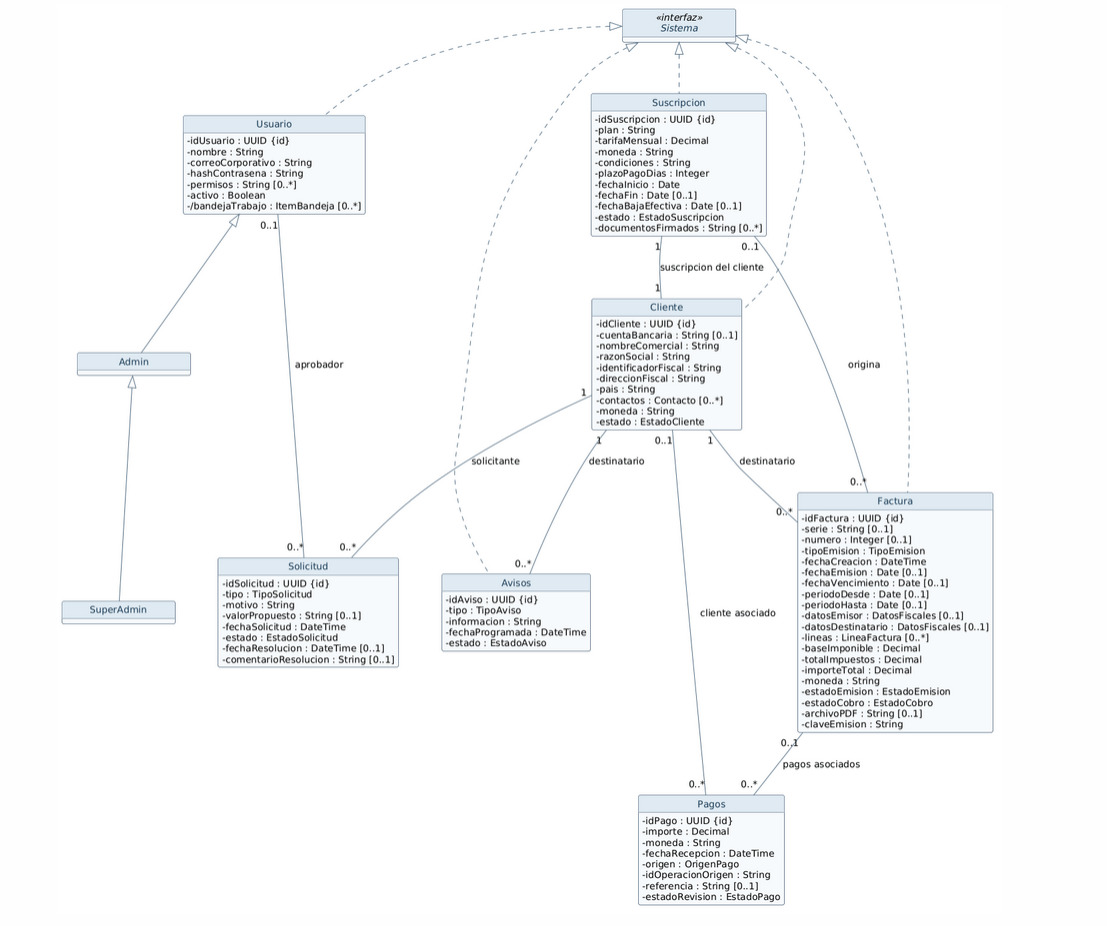
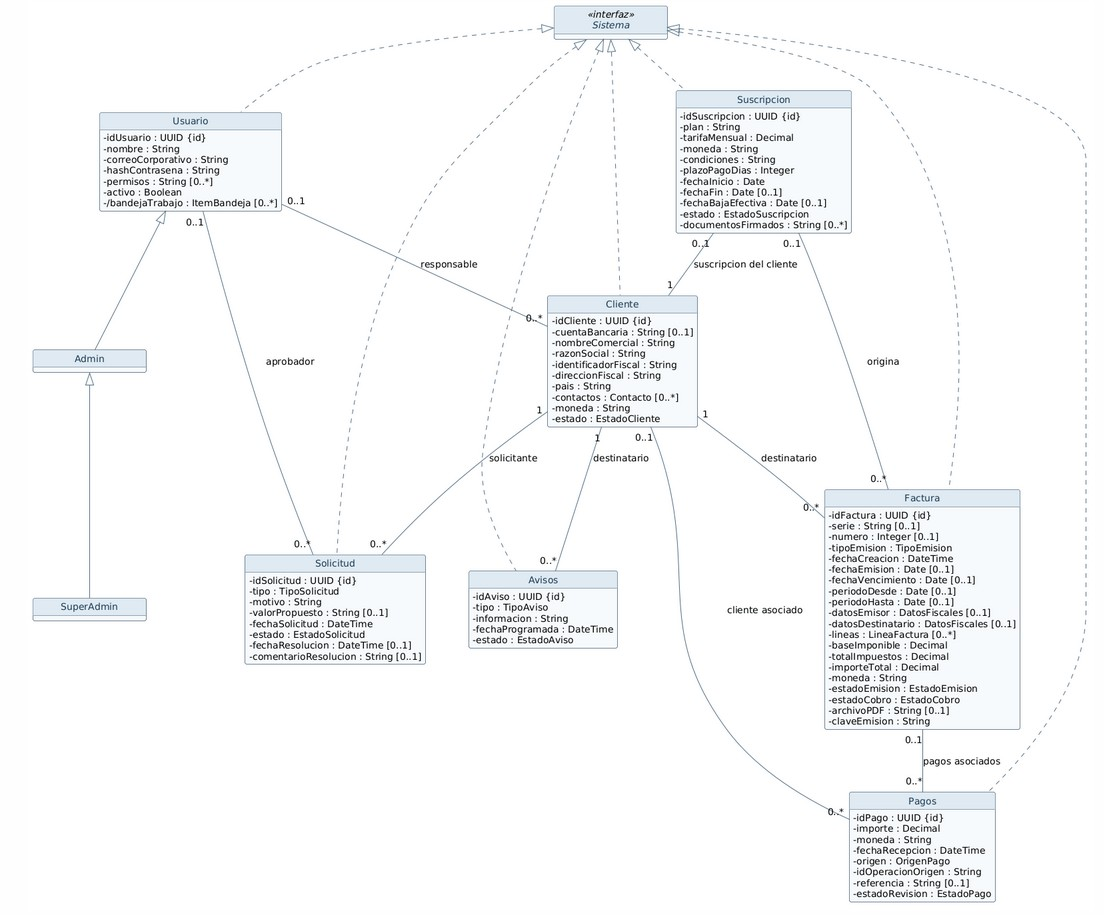
Updated the UML Diagram, fixed problems with the User cases

diff --git a/DiagramaClasesUML/Código diagrama de clases.md b/DiagramaClasesUML/Código diagrama de clases.md
@@ -1,6 +1,4 @@
 @startuml Turbine_clases_con_atributos
-' Vista del boceto acordado: atributos y relaciones, sin notas ni leyenda.
-' Los tipos de datos compuestos y enumeraciones se definen al final.
 top to bottom direction
 skinparam backgroundColor #FFFFFF
 skinparam defaultFontName SansSerif
@@ -116,18 +114,21 @@ class Avisos {
   -estado : EstadoAviso
 }
 
-' Realizacion de la interfaz e herencia del boceto original.
+' Realizacion completa de la interfaz y herencia
 Sistema <|.. Usuario
 Sistema <|.. Suscripcion
 Sistema <|.. Cliente
 Sistema <|.. Factura
 Sistema <|.. Avisos
+Sistema <|.. Pagos
+Sistema <|.. Solicitud
+
 Usuario <|-- Admin
 Admin <|-- SuperAdmin
 
-' Se mantiene el 1:1 Cliente-Suscripcion del boceto acordado.
-
-Suscripcion "1" -- "1" Cliente : suscripcion del cliente
+' Relaciones corregidas para consistencia con CU y Secuencias
+Usuario "0..1" -- "0..*" Cliente : responsable
+Suscripcion "0..1" -- "1" Cliente : suscripcion del cliente
 Cliente "1" -- "0..*" Factura : destinatario
 Suscripcion "0..1" -- "0..*" Factura : origina
 Factura "0..1" -- "0..*" Pagos : pagos asociados
@@ -135,3 +136,5 @@ Cliente "0..1" -- "0..*" Pagos : cliente asociado
 Cliente "1" -- "0..*" Solicitud : solicitante
 Usuario "0..1" -- "0..*" Solicitud : aprobador
 Cliente "1" -- "0..*" Avisos : destinatario
+
+@enduml
